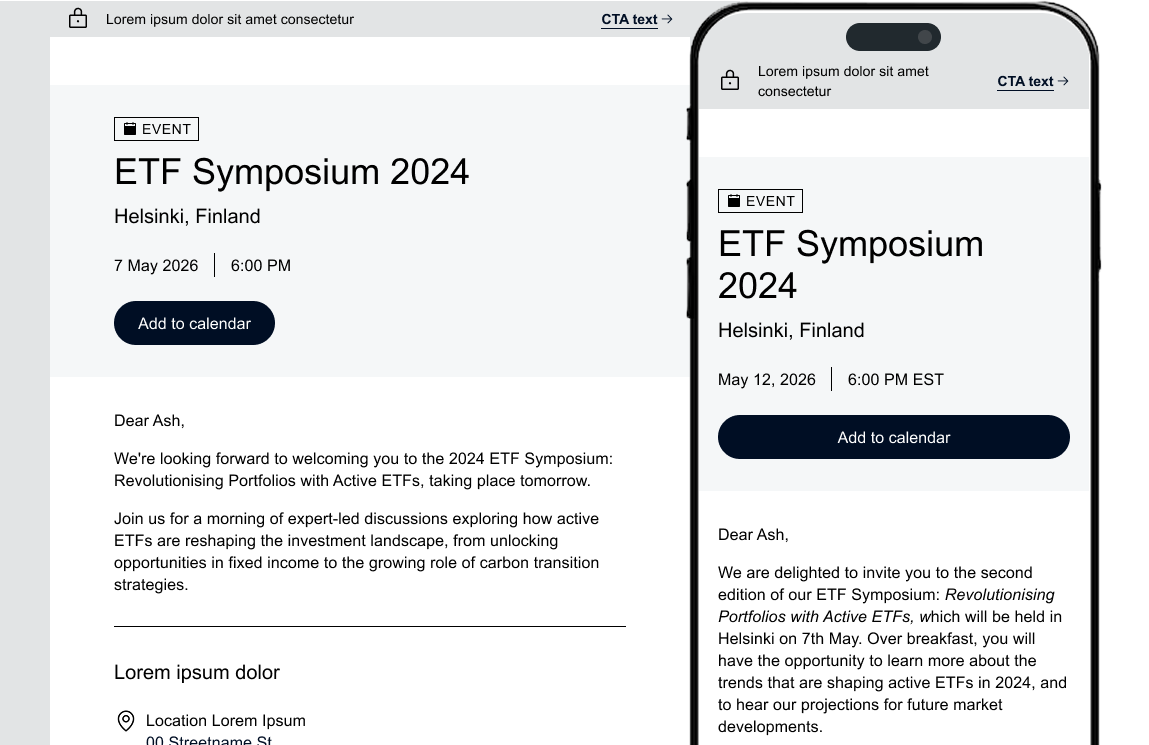
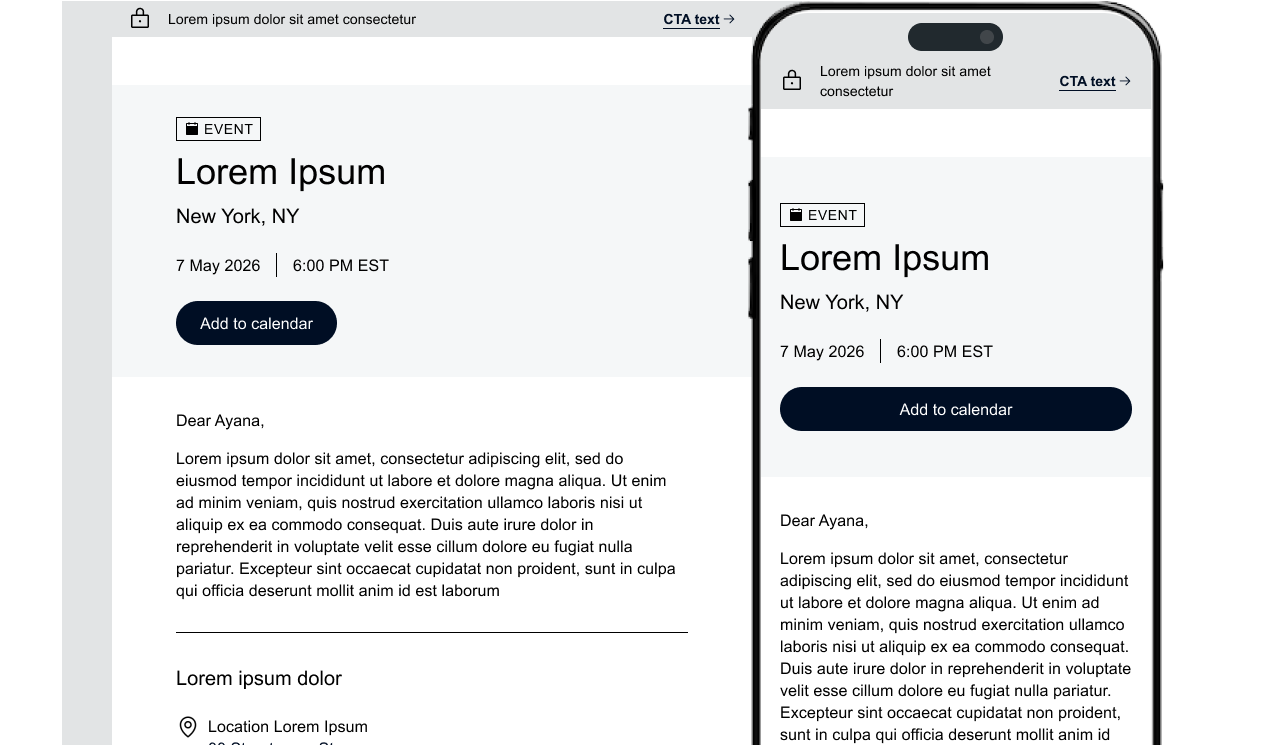
Adjust Email Design System card: larger image, increased opacity

diff --git a/index.html b/index.html
@@ -102,10 +102,10 @@
       <p class="work__section-label animate animate--4">Professional Work</p>
       <div class="work__grid work__grid--quad animate animate--5">
 
-        <article class="project-card" data-no-cursor style="background: linear-gradient(135deg, #e8f4fd 0%, #b3d9f2 100%); opacity: 0.65;">
+        <article class="project-card" data-no-cursor style="background: linear-gradient(135deg, #e8f4fd 0%, #b3d9f2 100%); opacity: 0.75;">
           <span style="position:absolute; top:12px; right:16px; background:rgba(0,0,0,0.65); color:#fff; font-size:11px; font-weight:600; letter-spacing:0.1em; text-transform:uppercase; padding:4px 10px; border-radius:20px; z-index:10;">Coming Soon</span>
           <div class="project-card__media">
-            <img src="/assets/ds_cover.png" alt="Email Design System" class="project-card__cover" style="object-fit: contain; object-position: center; padding: 32px;" />
+            <img src="/assets/ds_cover.png" alt="Email Design System" class="project-card__cover" style="object-fit: contain; object-position: center; padding: 8px;" />
           </div>
           <div class="project-card__info" style="background: rgba(10, 30, 60, 0.6);">
             <div class="project-card__meta">
